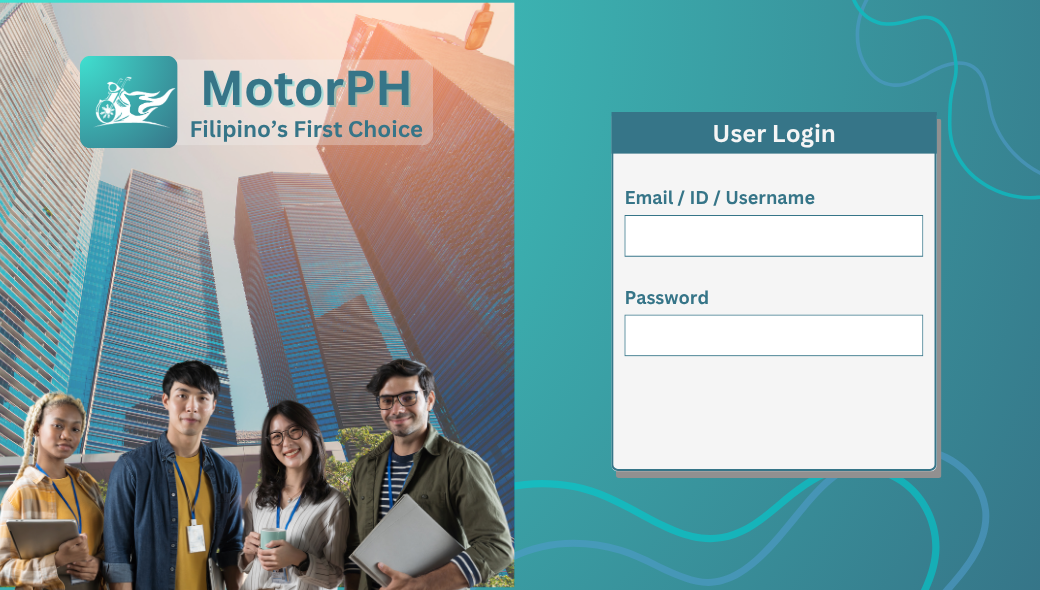
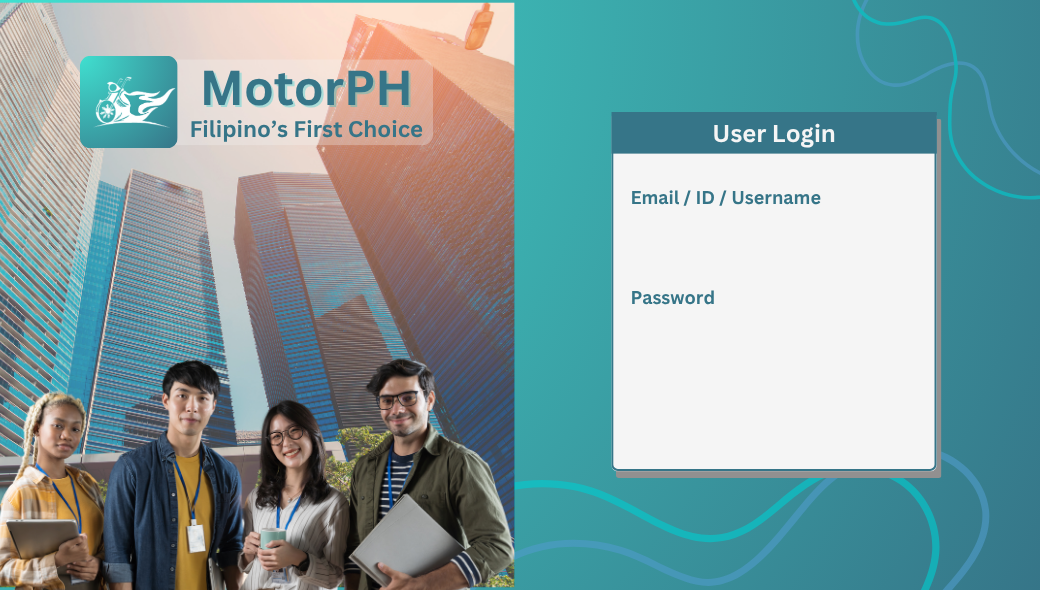
Fix UI issue on login page and connect it to Main class.

Changed region(s): [[0.5846, 0.4881, 0.8923, 0.5492], [0.5846, 0.3051, 0.8, 0.3661], [0.6154, 0.4271, 0.8615, 0.4576]]

diff --git a/src/main/java/ui/PageLogin.java b/src/main/java/ui/PageLogin.java
@@ -54,7 +54,7 @@ public class PageLogin extends javax.swing.JFrame {
                 passwordTextActionPerformed(evt);
             }
         });
-        getContentPane().add(passwordText, new org.netbeans.lib.awtextra.AbsoluteConstraints(630, 320, 280, 30));
+        getContentPane().add(passwordText, new org.netbeans.lib.awtextra.AbsoluteConstraints(630, 320, 280, 40));
 
         usernameText.setFont(new java.awt.Font("Segoe UI", 0, 18)); // NOI18N
         usernameText.setForeground(new java.awt.Color(51, 51, 51));
@@ -63,7 +63,7 @@ public class PageLogin extends javax.swing.JFrame {
                 usernameTextActionPerformed(evt);
             }
         });
-        getContentPane().add(usernameText, new org.netbeans.lib.awtextra.AbsoluteConstraints(631, 222, 280, 30));
+        getContentPane().add(usernameText, new org.netbeans.lib.awtextra.AbsoluteConstraints(630, 220, 280, 40));
 
         background.setIcon(new javax.swing.ImageIcon(getClass().getResource("/background/Login.png"))); // NOI18N
         getContentPane().add(background, new org.netbeans.lib.awtextra.AbsoluteConstraints(0, 0, -1, -1));

diff --git a/src/main/java/main/Main.java b/src/main/java/main/Main.java
@@ -1,9 +1,10 @@
 package main;
 
+import ui.PageLogin;
+
 public class Main {
     
-    public static void main(String[] args){
-        System.out.println("AOOP Group 9");
+    public static void main(String[] args){    
+        new PageLogin().setVisible(true);
     }
-    
 }
